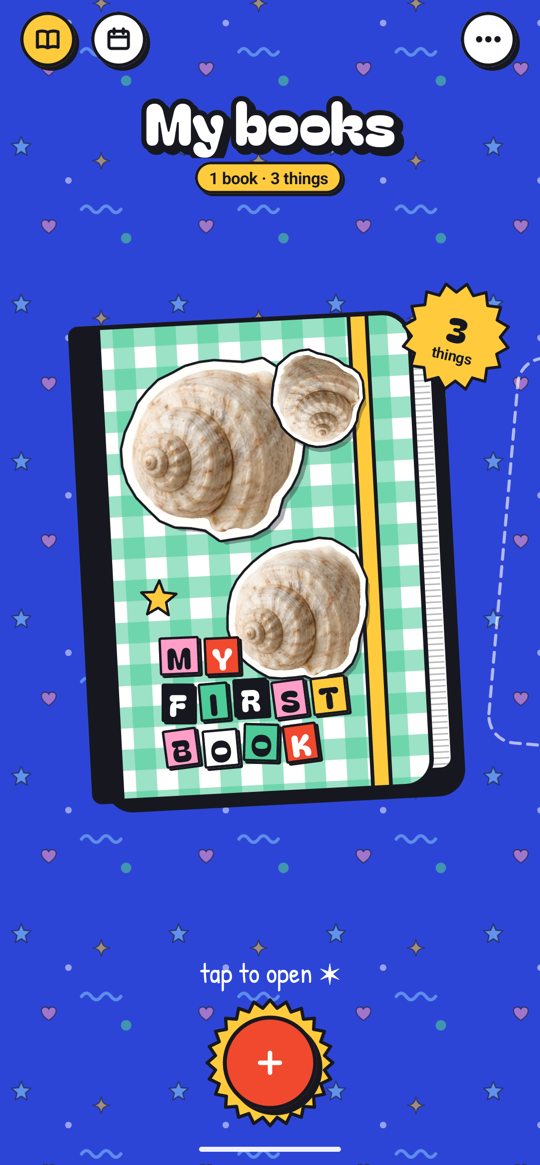
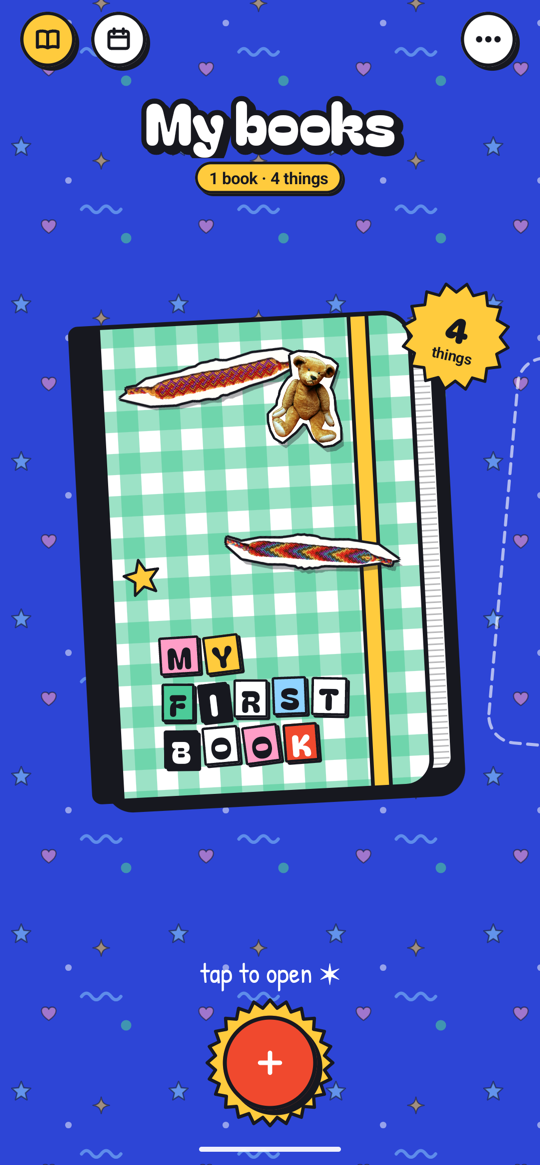
docs: show three screenshots with a mix of keepsakes

Changed region(s): [[0.2074, 0.2781, 0.7407, 0.6798], [0.8296, 0.2781, 0.8593, 0.309]]

diff --git a/README.md b/README.md
@@ -24,11 +24,9 @@
 
 Shelf is a native Android app for keeping the small things that matter: a ticket, a shell, a key. Photograph an object and Shelf cuts it out on your phone, like a sticker. Give it a name and a story if you like, and stick it into a book.
 
-| Welcome | Your books | A page | The calendar |
-| :---: | :---: | :---: | :---: |
-| <img src="docs/screenshots/welcome.png" width="180" alt="Welcome screen with hand-drawn keepsakes on gingham"> | <img src="docs/screenshots/books.png" width="180" alt="A gingham book on the desk, its cover made from the shells inside"> | <img src="docs/screenshots/page.png" width="180" alt="A page of shell stickers with kraft name tags, notes in pen and a date stamp"> | <img src="docs/screenshots/calendar.png" width="180" alt="A month of day cells, with today's shells piled in a ringed cell"> |
-| **A thing's page** | **Choose** | **Name it** | |
-| <img src="docs/screenshots/thing.png" width="180" alt="A shell sticker in its own sunshine, beside the taped photo it was cut from"> | <img src="docs/screenshots/choose.png" width="180" alt="A taped photo with two of three shells picked out in solid blue cut lines"> | <img src="docs/screenshots/name.png" width="180" alt="The shell sticker tied to a kraft tag with its name and story"> | |
+| Your books | A page | Choose |
+| :---: | :---: | :---: |
+| <img src="docs/screenshots/books.png" width="220" alt="A gingham book on the desk, its cover made from the bracelets and teddy inside"> | <img src="docs/screenshots/page.png" width="220" alt="A page with two bracelets, a teddy and a concert ticket, each with a kraft name tag and a note in pen"> | <img src="docs/screenshots/choose.png" width="220" alt="A taped photo of five friendship bracelets with three picked out in solid blue cut lines"> |
 
 ## Features
 
